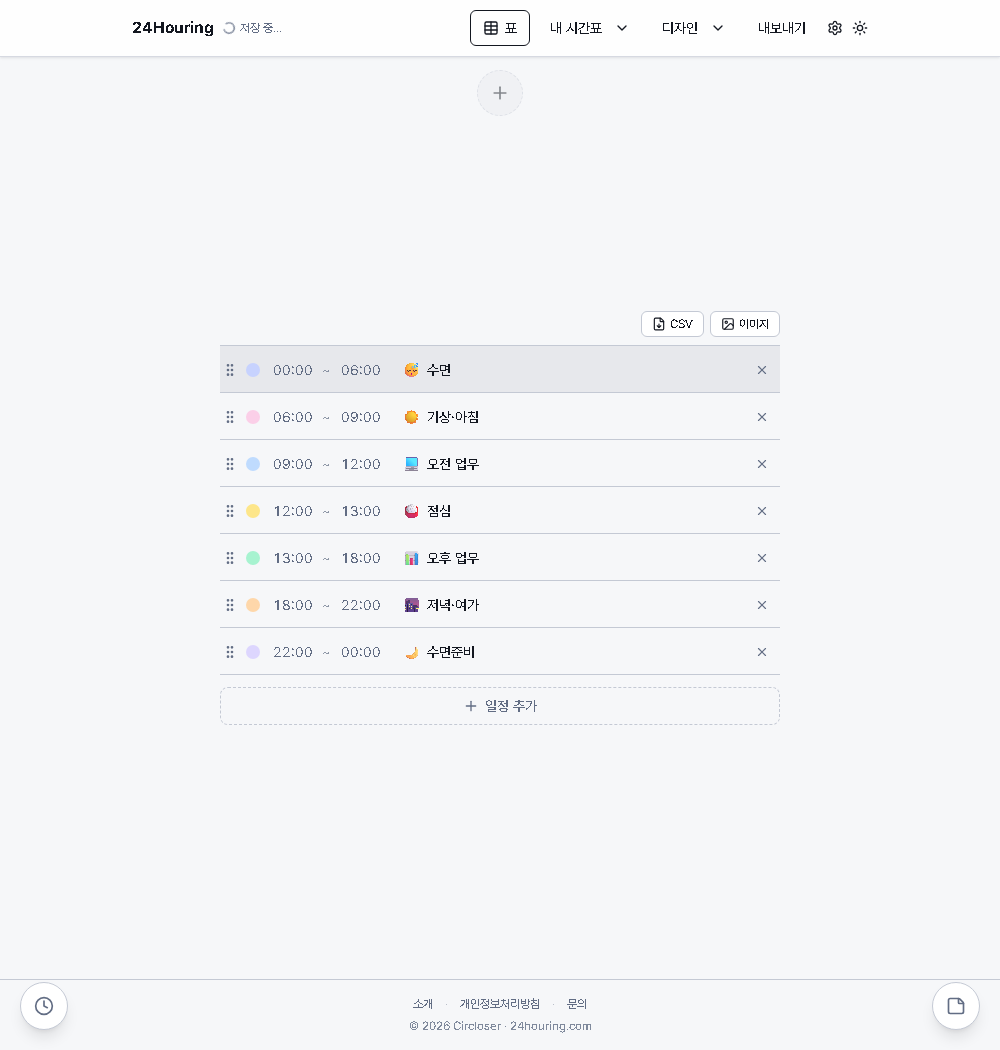
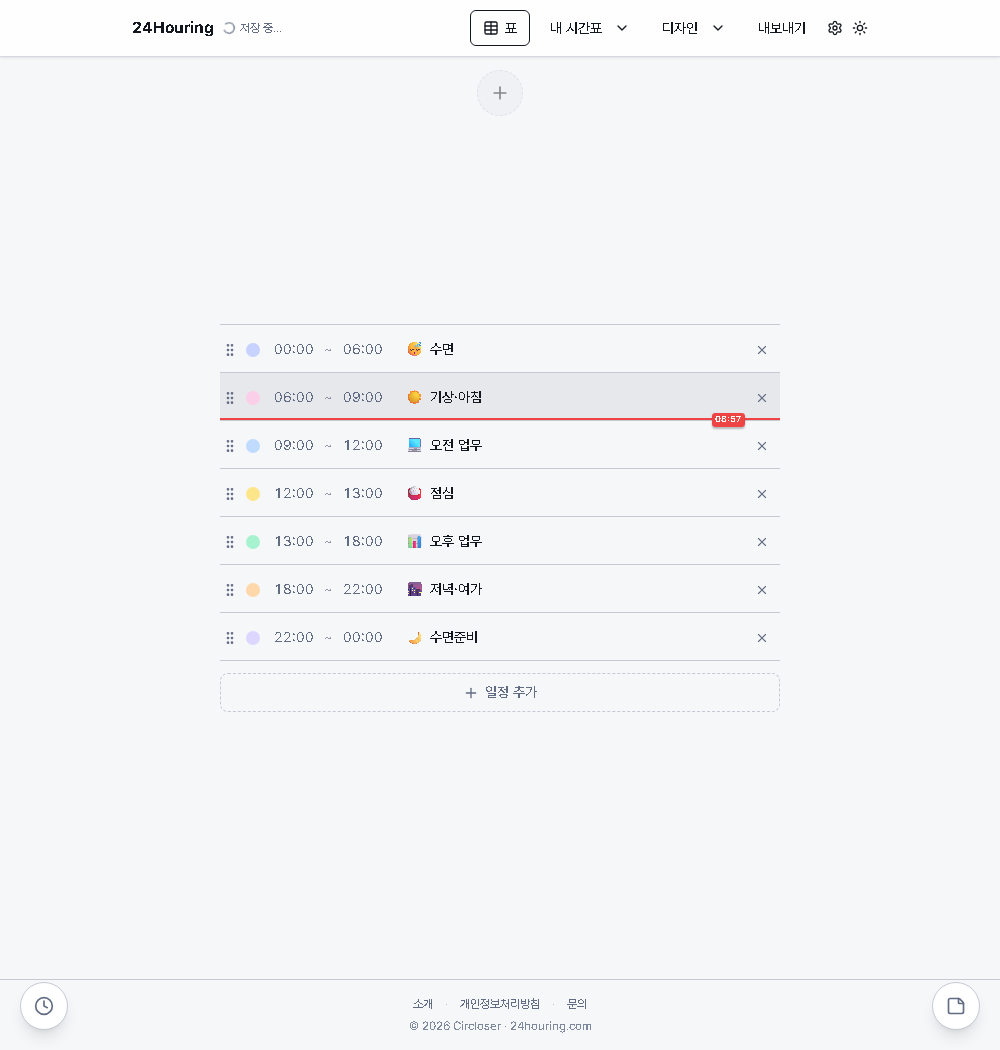
Table view: apply font-size pref + draw time lines
Two table-view fixes.

1) Font size: the table used fixed Tailwind text-sm, ignoring the font-scale
   preference. The container now sizes text with calc(var(--app-font-scale) *
   0.875rem) and the form controls (time fields, buttons) inherit it, so the
   Design → 폰트 크기 slider scales the table too. Time fields use em widths so
   they grow with the text.
2) Time lines: the current-time line (현재시간) and each world-clock line now
   render in the table as horizontal lines at the matching position inside the
   relevant row (with a colour-coded time pill), honouring the showNowLine
   toggle / colour / width and the configured world clocks — previously
   chart-only. Re-ticks every minute.

- tzMinutes() moved to time-utils (shared by the chart + table; chart's local
  copy removed).

406 tests pass · tsc -b · ESLint · verify-batch27 (font-scale + now/world lines)
and the table suite (24/25/26) ALL PASS.

diff --git a/src/components/ScheduleTable/ScheduleTable.tsx b/src/components/ScheduleTable/ScheduleTable.tsx
@@ -1,11 +1,14 @@
 import { useEffect, useRef, useState } from 'react';
 import { GripVertical, X, Plus } from 'lucide-react';
 import { useStoreSelector, useStoreDispatch } from '@/hooks/useScheduleStore';
-import { useTranslation, useShowIcons } from '@/hooks/usePreferences';
-import { hhmmToMinutes, sliceWidthMinutes } from '@/lib/time-utils';
+import { useTranslation, useShowIcons, useShowNowLine, useNowLineStyle, useWorldClocks } from '@/hooks/usePreferences';
+import { hhmmToMinutes, minutesToHhmm, sliceWidthMinutes, tzMinutes } from '@/lib/time-utils';
 
 /** End-of-day is stored as "24:00"; show it as "00:00" in fields. */
 const normTime = (hhmm: string) => (hhmm === '24:00' ? '00:00' : hhmm);
+
+/** Inherit the (scaled) font from the table container — form controls don't by default. */
+const INHERIT_FONT = { fontSize: 'inherit', fontFamily: 'inherit' } as const;
 
 /**
  * A borderless 24h "HH:MM" time field. Locale-independent (unlike <input
@@ -56,8 +59,8 @@ function TimeCell({
         if (e.key === 'Enter') e.currentTarget.blur();
         else if (e.key === 'Escape') { setText(display); e.currentTarget.blur(); }
       }}
-      className="w-[3.4rem] rounded px-1 py-0.5 text-center text-sm tabular-nums outline-none transition-colors focus:bg-black/10 disabled:opacity-60"
-      style={{ color: 'hsl(var(--text-muted))', background: 'transparent' }}
+      className="w-[4em] rounded px-1 py-0.5 text-center tabular-nums outline-none transition-colors focus:bg-black/10 disabled:opacity-60"
+      style={{ ...INHERIT_FONT, color: 'hsl(var(--text-muted))', background: 'transparent' }}
     />
   );
 }
@@ -70,19 +73,39 @@ interface ScheduleTableProps {
 
 /**
  * List/table view of the timetable — one row per slice (drag-handle · colour ·
- * start ~ end · label · delete). Editing a time moves the shared boundary
- * (neighbour follows); dragging the handle reorders the activity sequence and
- * restacks the times. A toolbar exports the table as CSV or PNG.
+ * start ~ end · label · delete). Editing a time moves the shared boundary;
+ * dragging the handle reorders + restacks. Honours the font-scale preference,
+ * and overlays horizontal time lines (current time + each world clock) at the
+ * matching position inside the row.
  */
 export function ScheduleTable({ locked = false, onEditLabel, onAddRow }: ScheduleTableProps) {
   const slices = useStoreSelector((s) => s.history.present.slices);
   const dispatch = useStoreDispatch();
   const { t } = useTranslation();
   const showIcons = useShowIcons();
+  const showNowLine = useShowNowLine();
+  const nowLineStyle = useNowLineStyle();
+  const worldClocks = useWorldClocks();
   const len = slices.length;
+
+  // Live tick so the time lines + current-row highlight track the clock.
+  const [, setTick] = useState(0);
+  useEffect(() => {
+    const id = setInterval(() => setTick((n) => n + 1), 60_000);
+    return () => clearInterval(id);
+  }, []);
 
   const now = new Date();
   const nowMin = now.getHours() * 60 + now.getMinutes();
+
+  // Horizontal time-line markers: the current time + each configured world clock.
+  const markers: Array<{ minute: number; color: string; text: string }> = [];
+  if (showNowLine) markers.push({ minute: nowMin, color: nowLineStyle.color, text: minutesToHhmm(nowMin) });
+  for (const wc of worldClocks) {
+    const m = tzMinutes(wc.tz, now);
+    if (m !== null) markers.push({ minute: m, color: wc.color, text: `${wc.label} ${minutesToHhmm(m)}` });
+  }
+  const lineW = Math.max(1.5, nowLineStyle.width);
 
   const resize = (boundaryIndex: number, hhmm: string) =>
     dispatch({ type: 'RESIZE_BOUNDARY', boundaryIndex, newHHmm: hhmm });
@@ -124,16 +147,23 @@ export function ScheduleTable({ locked = false, onEditLabel, onAddRow }: Schedul
   };
 
   return (
-    <div className="w-full max-w-[560px]">
+    <div className="w-full max-w-[560px]" style={{ fontSize: 'calc(var(--app-font-scale, 1) * 0.875rem)' }}>
       <ul ref={ulRef} className="flex flex-col" style={{ borderTop: '1px solid hsl(var(--border))' }}>
         {slices.map((s, i) => {
-          const isNow = ((nowMin - hhmmToMinutes(s.startTime) + 1440) % 1440) < sliceWidthMinutes(s);
+          const sStart = hhmmToMinutes(s.startTime);
+          const w = sliceWidthMinutes(s);
+          const rel = (nowMin - sStart + 1440) % 1440;
+          const isNow = rel < w;
           const dragging = drag?.from === i;
           const isOver = drag && drag.over === i && drag.from !== i;
+          // Which time lines fall inside this row, and at what fraction of it.
+          const rowMarks = markers
+            .map((mk) => ({ ...mk, frac: w > 0 ? ((mk.minute - sStart + 1440) % 1440) / w : 0, inRow: ((mk.minute - sStart + 1440) % 1440) < w }))
+            .filter((mk) => mk.inRow);
           return (
             <li
               key={s.id}
-              className="flex items-center gap-1.5 py-2 pr-1"
+              className="relative flex items-center gap-1.5 py-2 pr-1"
               style={{
                 borderBottom: '1px solid hsl(var(--border))',
                 borderTop: isOver ? '2px solid hsl(var(--primary))' : '2px solid transparent',
@@ -142,6 +172,21 @@ export function ScheduleTable({ locked = false, onEditLabel, onAddRow }: Schedul
                 touchAction: 'pan-y',
               }}
             >
+              {/* Horizontal time lines (current time + world clocks). */}
+              {!drag && rowMarks.map((mk, k) => (
+                <div
+                  key={`mk${k}`}
+                  aria-hidden
+                  style={{ position: 'absolute', left: 0, right: 0, top: `${mk.frac * 100}%`, transform: 'translateY(-50%)', borderTop: `${lineW}px solid ${mk.color}`, pointerEvents: 'none', zIndex: 4 }}
+                >
+                  <span
+                    style={{ position: 'absolute', right: '2.2rem', top: '50%', transform: 'translateY(-50%)', backgroundColor: mk.color, color: '#fff', borderRadius: '0.4em', padding: '0 0.4em', fontSize: '0.62em', fontWeight: 700, lineHeight: 1.6, whiteSpace: 'nowrap', boxShadow: '0 1px 2px rgba(0,0,0,0.25)' }}
+                  >
+                    {mk.text}
+                  </span>
+                </div>
+              ))}
+
               <button
                 type="button"
                 aria-label={t('table.reorder')}
@@ -158,15 +203,15 @@ export function ScheduleTable({ locked = false, onEditLabel, onAddRow }: Schedul
               <span className="h-3.5 w-3.5 shrink-0 rounded-full" style={{ backgroundColor: s.color }} />
               <div className="flex shrink-0 items-center gap-0.5">
                 <TimeCell value={s.startTime} disabled={locked} label={t('block.start')} onCommit={(hhmm) => resize((i - 1 + len) % len, hhmm)} />
-                <span className="text-sm" style={{ color: 'hsl(var(--text-muted) / 0.7)' }}>~</span>
+                <span style={{ color: 'hsl(var(--text-muted) / 0.7)' }}>~</span>
                 <TimeCell value={s.endTime} disabled={locked} label={t('block.end')} onCommit={(hhmm) => resize(i, hhmm)} />
               </div>
 
               <button
                 type="button"
                 onClick={() => onEditLabel(s.id)}
-                className="flex min-w-0 flex-1 items-center gap-1.5 rounded px-2 py-1 text-left text-sm transition-colors hover:bg-black/5"
-                style={{ color: 'hsl(var(--foreground))' }}
+                className="flex min-w-0 flex-1 items-center gap-1.5 rounded px-2 py-1 text-left transition-colors hover:bg-black/5"
+                style={{ ...INHERIT_FONT, color: 'hsl(var(--foreground))' }}
               >
                 {showIcons && s.icon && <span aria-hidden className="shrink-0">{s.icon}</span>}
                 <span className="truncate">{s.label.trim() || t('analytics.untitled')}</span>
@@ -193,8 +238,8 @@ export function ScheduleTable({ locked = false, onEditLabel, onAddRow }: Schedul
         type="button"
         onClick={onAddRow}
         disabled={locked}
-        className="mt-3 flex w-full items-center justify-center gap-1.5 rounded-lg py-2 text-sm font-medium transition-colors disabled:opacity-50"
-        style={{ border: '1px dashed hsl(var(--border))', color: 'hsl(var(--text-muted))' }}
+        className="mt-3 flex w-full items-center justify-center gap-1.5 rounded-lg py-2 font-medium transition-colors disabled:opacity-50"
+        style={{ ...INHERIT_FONT, border: '1px dashed hsl(var(--border))', color: 'hsl(var(--text-muted))' }}
       >
         <Plus className="h-4 w-4" /> {t('block.add')}
       </button>

diff --git a/src/components/CircleTimeline/CircleTimeline.tsx b/src/components/CircleTimeline/CircleTimeline.tsx
@@ -1,7 +1,7 @@
 import { useRef, useEffect, useState, useCallback, useMemo } from 'react';
 import type { TimeSlice } from '@/types/time-slice';
 import { RING, polarToCartesian, slicePath, wrapText } from '@/lib/svg-geometry';
-import { hhmmToMinutes, minutesToHhmm, snapMinutes, sliceWidthMinutes } from '@/lib/time-utils';
+import { hhmmToMinutes, minutesToHhmm, snapMinutes, sliceWidthMinutes, tzMinutes } from '@/lib/time-utils';
 import {
   viewSpec,
   angleForMin,
@@ -212,24 +212,6 @@ function HourTicks({ spec = FULL_SPEC }: { spec?: ViewSpec }) {
 // ─── Current-time "now" indicator line ───────────────────────────────────────
 // Rendered in the SVG but tagged data-export-exclude="true" so the PNG/PDF
 // export clone strips it (see png.ts and stripFilters.ts strip steps).
-
-/** Current minute-of-day in an IANA time zone (0..1439), or null if unsupported. */
-function tzMinutes(tz: string, now: Date): number | null {
-  try {
-    const parts = new Intl.DateTimeFormat('en-US', {
-      timeZone: tz,
-      hour: '2-digit',
-      minute: '2-digit',
-      hourCycle: 'h23',
-    }).formatToParts(now);
-    const h = Number(parts.find((p) => p.type === 'hour')?.value);
-    const m = Number(parts.find((p) => p.type === 'minute')?.value);
-    if (Number.isNaN(h) || Number.isNaN(m)) return null;
-    return (h % 24) * 60 + m;
-  } catch {
-    return null;
-  }
-}
 
 /** A radial time line + rim dot at a minute-of-day, in the given view + colour. */
 function TimeMark({ minute, spec, color, width }: { minute: number; spec: ViewSpec; color: string; width: number }) {

diff --git a/src/lib/time-utils.ts b/src/lib/time-utils.ts
@@ -76,6 +76,24 @@ export function sliceWidthMinutes(slice: TimeSlice): number {
   return endMin - startMin;
 }
 
+/** Current minute-of-day (0..1439) in an IANA time zone, or null if unsupported. */
+export function tzMinutes(tz: string, now: Date = new Date()): number | null {
+  try {
+    const parts = new Intl.DateTimeFormat('en-US', {
+      timeZone: tz,
+      hour: '2-digit',
+      minute: '2-digit',
+      hourCycle: 'h23',
+    }).formatToParts(now);
+    const h = Number(parts.find((p) => p.type === 'hour')?.value);
+    const m = Number(parts.find((p) => p.type === 'minute')?.value);
+    if (Number.isNaN(h) || Number.isNaN(m)) return null;
+    return (h % 24) * 60 + m;
+  } catch {
+    return null;
+  }
+}
+
 /**
  * Returns true if the slices together cover exactly 24h with no gaps/overlaps,
  * in clockwise order, with at most one wrap-around slice.